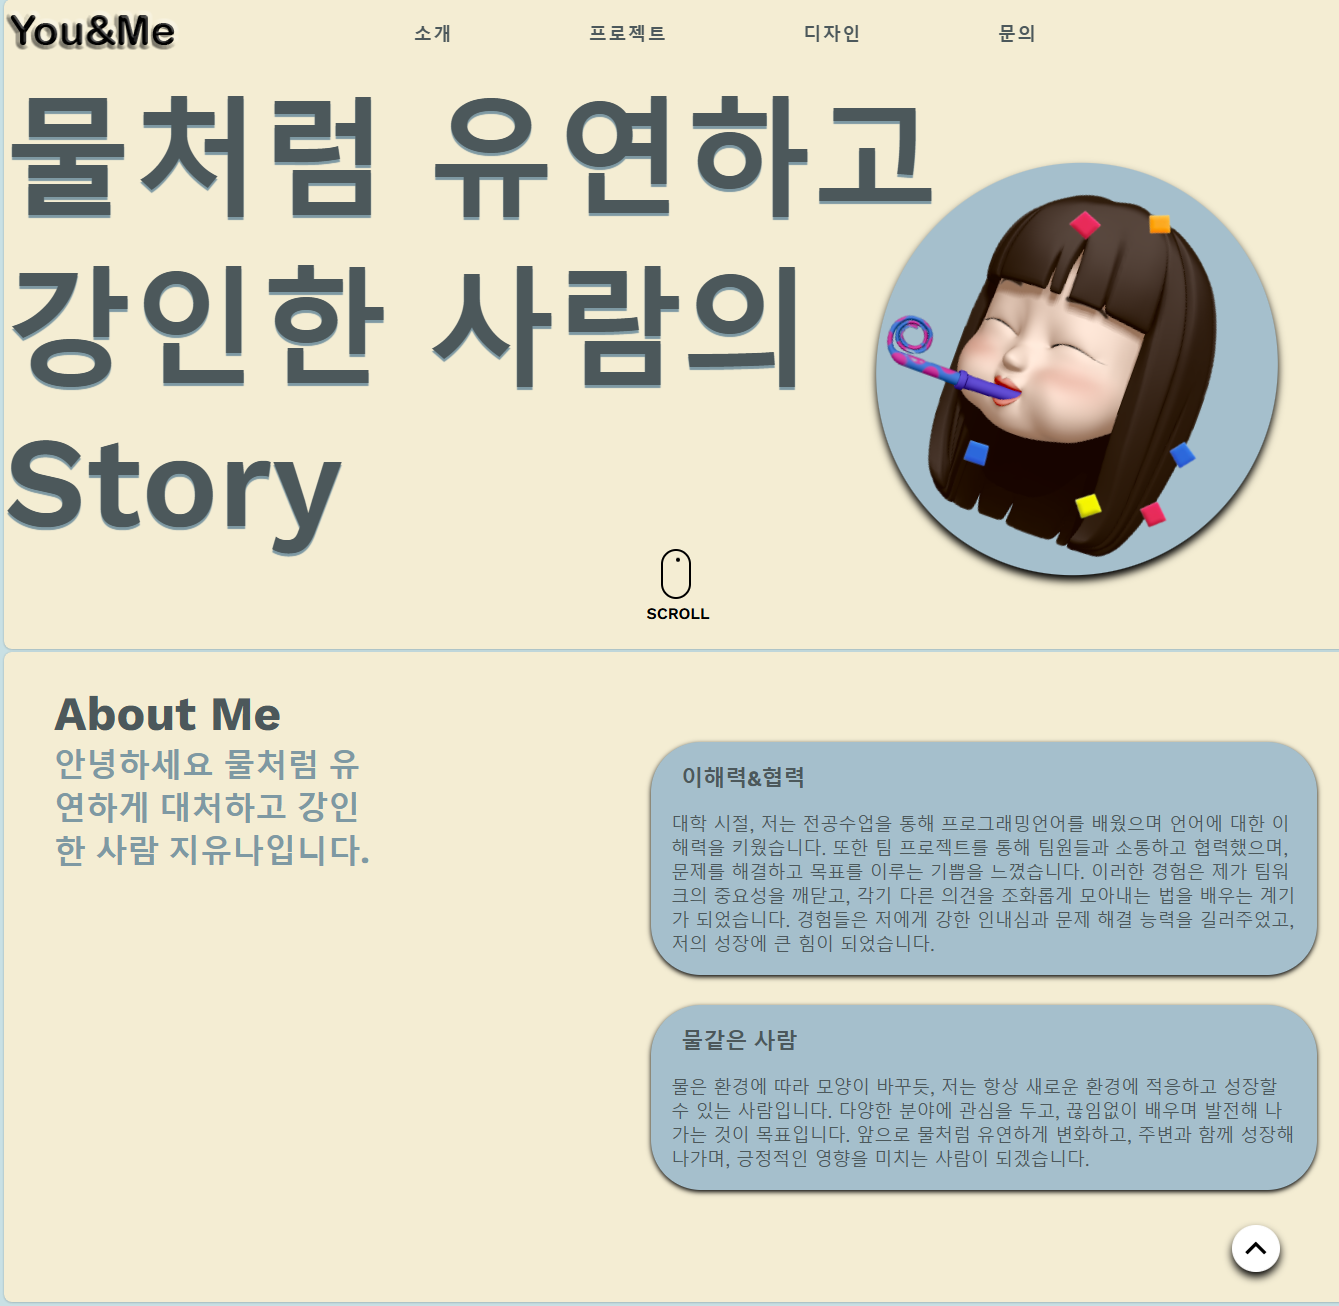
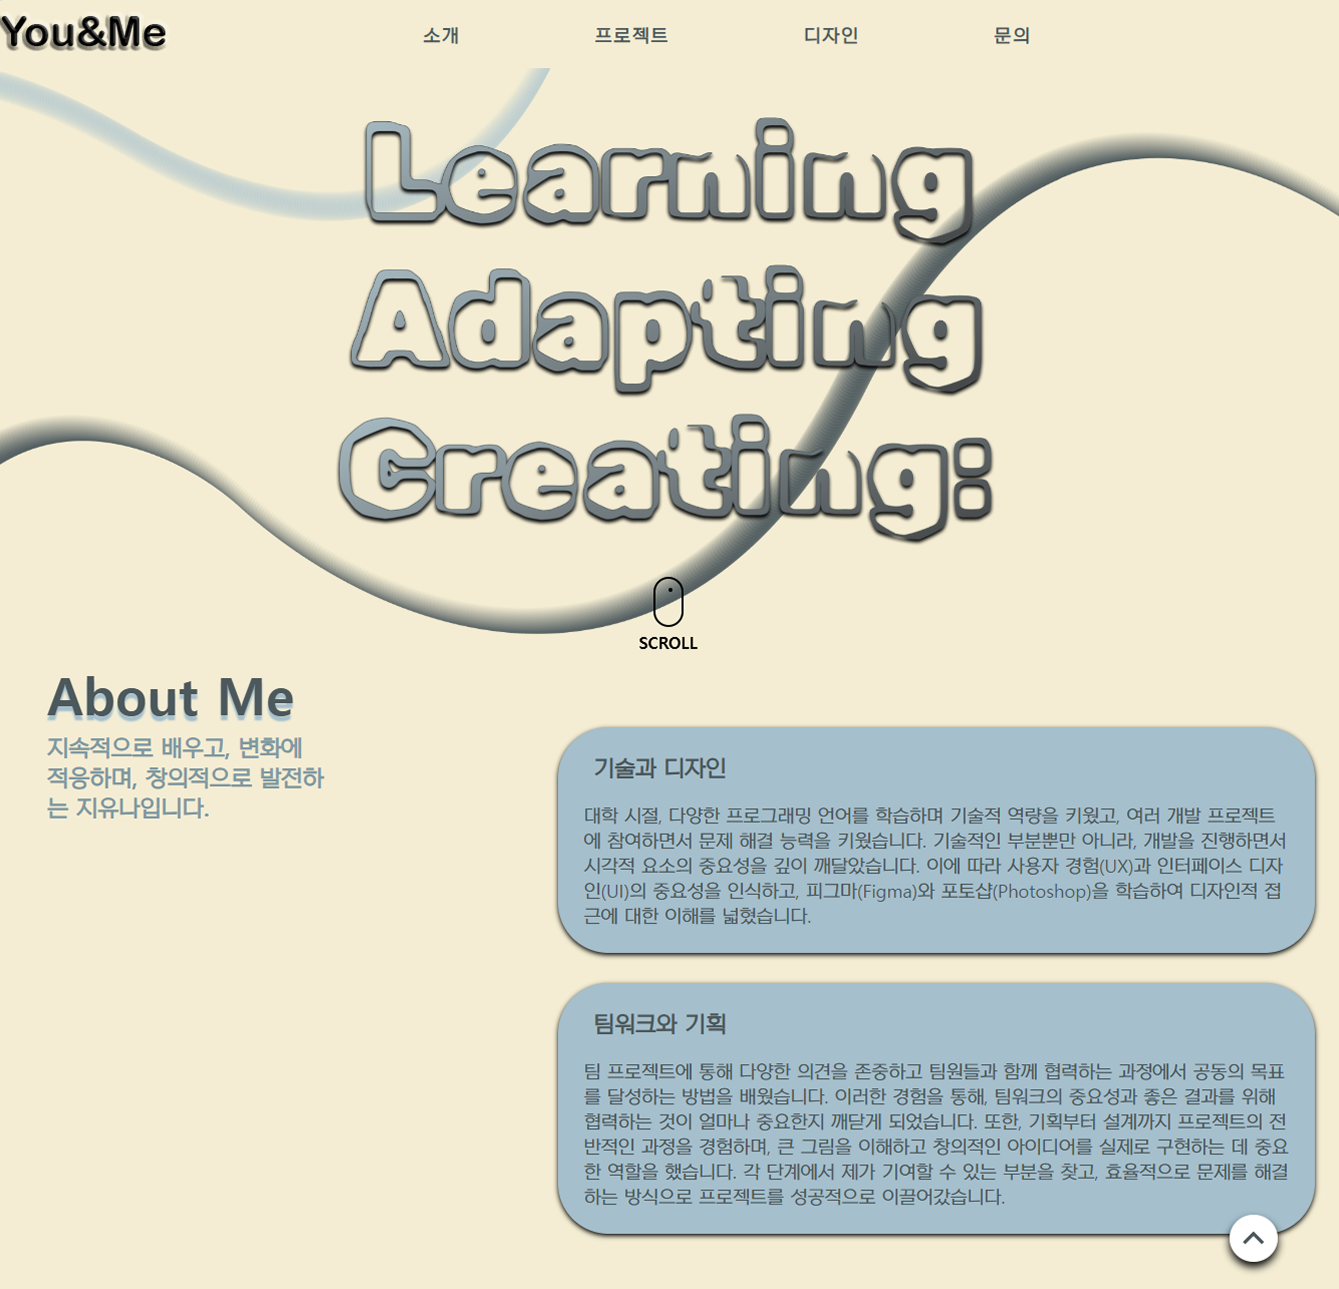
background 수정

diff --git a/media.css b/media.css
@@ -27,7 +27,6 @@
         justify-content: space-between;
         z-index: 999;
     }
- 
     .tooglebtn{
         cursor: pointer;
         display: flex;
@@ -41,7 +40,6 @@
         display: none;
         background-color: hwb(200 65% 20%);
         z-index: 50;  
-        
     }
     .close{
         display: flex;
@@ -78,29 +76,26 @@
    }
  
     .frist{
+
+        margin-top:55px;
         height: 90vh;
     }
-    .maincphoto{
-        margin-top: auto;
+    .mainback img:first-child {
+        position: absolute;
+        top: 0%;
+        left: -10%;
+        width: 120%;
     }
-    .maincphoto img{
-        margin-top: 30px;
-        width: 78%;
-        top: 55%;
-        left: 50%;
-        transform: translate(-50%, -50%);
+    .mainback img:nth-child(2){
+        position: absolute;
+        top: -60%;
+        left: -30%;
+        width: 100%;
     }
     .maintxt{
-        position: relative;
-        margin-top: 58px;
-
+        margin-top: 60px;
     }
-    .maintxt p{
-        font-size: 6rem;
-        font-weight: 600;
-        color: var(--color-n1);
-        text-shadow: 0 3px 1px var(--color-n2);
-        }
+    
     .about{
         opacity: 0;
         transform: translateX(-100px);
@@ -265,28 +260,24 @@
      .frist{
         height: 90vh;
     }
-    .maincphoto img{
-        margin-top: 15px;
+    .mainback img:first-child {
         position: absolute;
-        width: 100%;
-        top: 50%;
-        left: 50%;
-        transform: translate(-50%, -50%);
+        top: 40%;
+        left: -5%;
     }
-    .maintxt{
-        position: relative;
-        top: 180px;
-        margin-top: auto;
-    
+    .mainback img:nth-child(2){
+        position: absolute;
+        top: -25%;
+        left: -25%;
+        width: 120%;
     }
-    .maintxt p{
-        font-size: 3.5rem;
-        text-align: center;
-        font-weight: 600;
-        color: var(--color-n1);
-        text-shadow: 0 3px 1px var(--color-n2);
-        }
-   
+    .maintextimg{
+        margin-top:100px;
+
+    }
+    .maintextimg img{
+        width:100%;
+    }
     .about{
         opacity: 1;
         margin-top: 20px; 
@@ -603,7 +594,7 @@
   }
   .iconmouse {
     position: absolute;
-    bottom: 25px;
+    bottom: 60px;
     left: 50%;
     transform: translate(-50%, 0);
     z-index: 1;

diff --git a/home.css b/home.css
@@ -90,61 +90,58 @@ body{
     display: none;
 }
 .frist{
-    font-family: "KyoboHand";
-    height: 90vh;
-}
-.maincphoto{
-    margin-top: 15px;
-}
-.maincphoto img{
-    margin-top: 15px;
-    position: absolute;
-    width: 80%;
-    top: 50%;
-    left: 50%;
-    transform: translate(-50%, -50%);
-}
-.maintxt{
     position: relative;
-}
-.maintxt p{
-    text-align: center;
-    font-size: 6rem;
-    font-weight: 600;
-    color: var(--color-n1);
-    text-shadow: 0 3px 1px var(--color-n2);
-    opacity: 0; 
-    transform: translateY(30px);
-    animation: fadeInUp 0.5s ease-out forwards; /* 기본 애니메이션 설정 */
-    animation-delay: 0s; /* 기본값은 바로 시작 */
+    height: 95vh;
+    overflow: hidden;
 }
 
-.maintxt p:nth-child(1) {
-  animation-delay: 0.5s; 
+.mainback img:first-child {
+    position: absolute;
+    top: 0%;
+    left: -10%;
+    width: 120%;
+}
+.mainback img:nth-child(2){
+    position: absolute;
+    top: -70%;
+    left: -30%;
+    width: 100%;
+}
+.maintextimg{
+    margin-top: 35px;
+    display: flex;
+    flex-direction: column;  
+    align-items: center; 
+}
+.maintextimg img{
+    opacity: 0;   
+    transform: translateY(30px);  /* 이미지는 아래쪽에서 시작 */
+    animation: slideUp 1s ease-in-out forwards;
+    width: 55%;
+    position: relative;
+    display: block; 
+    margin: 0 auto;
+}
+@keyframes slideUp {
+    0% {
+        opacity: 0;
+        transform: translateY(30px);  /* 아래쪽에서 시작 */
+    }
+    100% {
+        opacity: 1;
+        transform: translateY(0);  /* 원래 위치로 이동 */
+    }
+}
+.maintextimg img:nth-child(1) {
+    animation-delay: 0.1s; 
 }
 
-.maintxt p:nth-child(2) {
-  animation-delay: 1s; 
+.maintextimg img:nth-child(2) {
+    animation-delay: 0.4s;  
 }
 
-.maintxt p:nth-child(3) {
-  animation-delay: 1.5s;
-}
-
-.maintxt p:nth-child(4) {
-  animation-delay: 2s; 
-}
-
-/* 애니메이션 설정 */
-@keyframes fadeInUp {
-  0% {
-    opacity: 0;
-    transform: translateY(30px);
-  }
-  100% {
-    opacity: 1;
-    transform: translateY(0);
-  }
+.maintextimg img:nth-child(3) {
+    animation-delay: 0.7s;  
 }
 /* header end*/
 

diff --git a/home.html b/home.html
@@ -19,8 +19,6 @@
     <link href=".\img\logo.png" rel="shortcut icon" type="image/x-icon">
     <link rel="preconnect" href="https://fonts.googleapis.com">
     <link rel="preconnect" href="https://fonts.gstatic.com" crossorigin>
-    <link href="https://fonts.googleapis.com/css2?family=Noto+Sans+KR:wght@100..900&display=swap" rel="stylesheet">
-    <link href="https://fonts.googleapis.com/css2?family=Qwitcher+Grypen&family=Work+Sans:ital,wght@0,100..900;1,100..900&display=swap" rel="stylesheet">
     <meta name="viewport" content="user-scalable=no, viewport-fit=cover, initial-scale=1.0, maximum-scale=1.0, minimum-scale=1.0, width= device-width">
 </head>
 <body>
@@ -42,14 +40,14 @@
 
     <section class="frist">
         
-        <div class="maincphoto">
-            <img src=".\img\background.png" alt="">
+        <div class="mainback">
+            <img src=".\img\back1.png" alt="back1">
+            <img src=".\img\back2.png" alt="back2">
         </div>
-        <div class="maintxt">
-            <p>Learning</p>
-            <p>Adapting</p>
-            <p>Creating:</p>
-            <p>나아가는 길</p>
+        <div class="maintextimg">
+          <img src=".\img\text1.png" alt="Imagetxt 1">
+          <img src=".\img\text2.png" alt="Imagetxt 2">
+          <img src=".\img\text3.png" alt="Imagetxt 3">
         </div>
   
     <div class="iconmouse">
